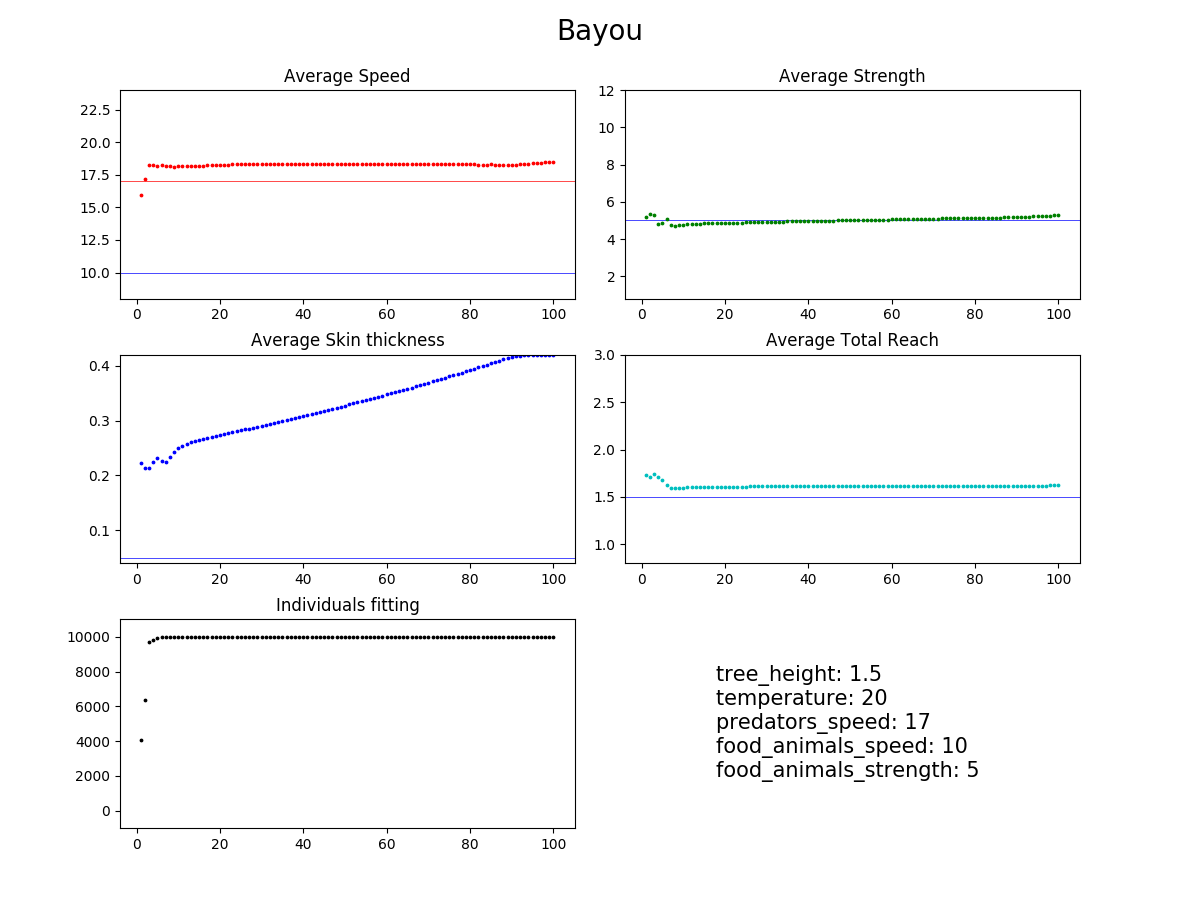
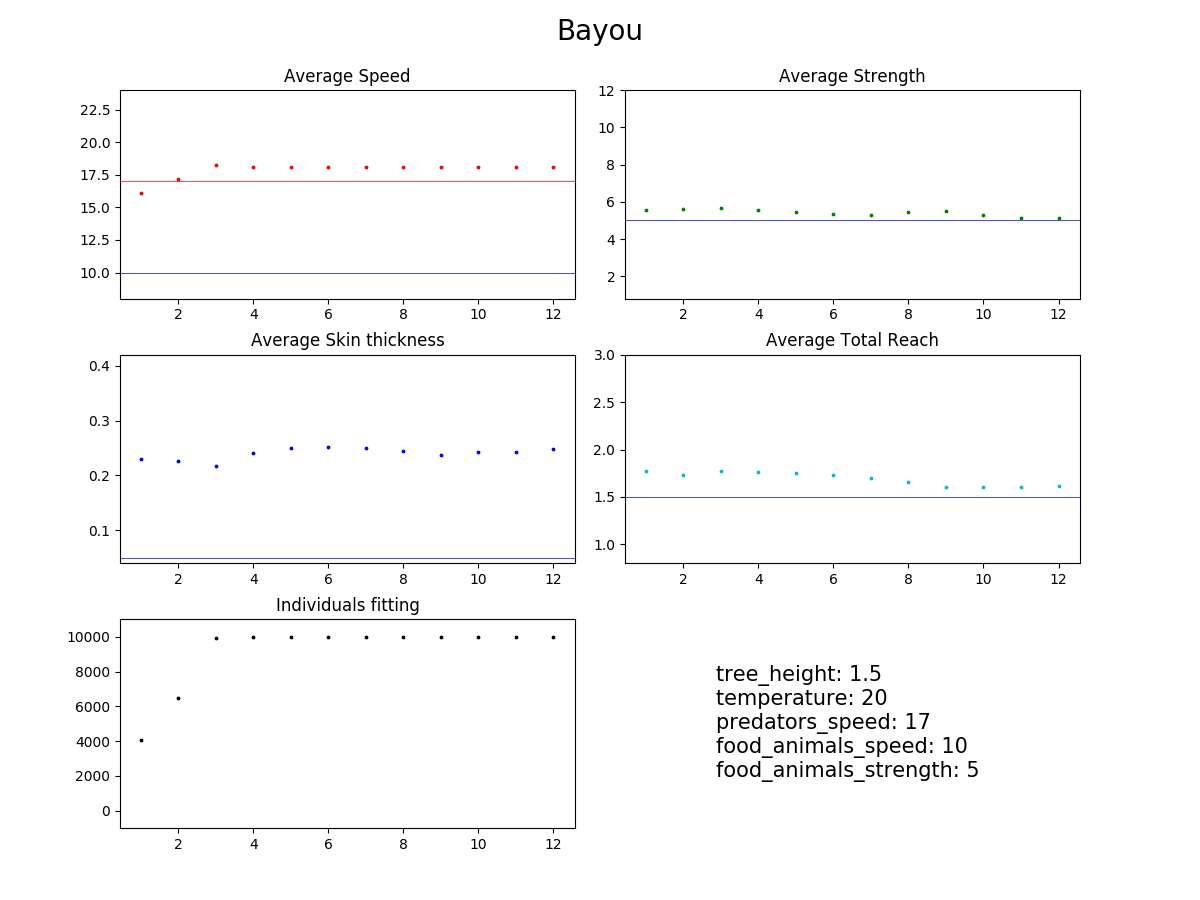
Added convergence check

diff --git a/src/natural_selection/filter.py b/src/natural_selection/filter.py
@@ -36,7 +36,7 @@ async def evaluate_individual(individual, environment):
     :rtype:
     """
     individual_value = value_function(individual, environment)
-    individual_value = check_enough_food(individual, individual_value, environment)
+    individual_value = individual_value * 0.5 if not check_enough_food(individual, environment) else individual_value
     individual_value = check_too_good(individual, individual_value, environment)
     individual_value = check_fast_enough(individual, individual_value, environment)
     individual_value = check_warm_enough(individual, individual_value, environment)
@@ -56,28 +56,33 @@ def value_function(individual, environment):
     temp_threshold = 0.05 + (abs(environment['temperature'] - 20) * (0.30 / 30))
     total_value = 0
     total_reach = individual['height'] + individual['arm_length'] + individual['jump']
-    total_value += total_reach / environment['tree_height']
-    total_value += individual['speed'] / environment['food_animals_speed']
+    total_value += 4 * total_reach / environment['tree_height']
     total_value += individual['strength'] / environment['food_animals_strength']
+    total_value += individual['speed'] / environment['predators_speed']
     total_value += individual['skin_thickness'] / temp_threshold
     return total_value
 
 
-def check_enough_food(individual, total_value, environment):
+def check_enough_food(individual, environment):
     """
-    This method checks if the individual will be able to obtain food in some way. Otherwise is penalized.
+    This method checks if the individual will be able to obtain food in some way.
     :param individual:
     :type individual: Individual
-    :param total_value:
-    :type total_value: float
     :return:
     :rtype: float
     """
     if (individual['total_reach'] < environment['tree_height']) or \
         (individual['speed'] < environment['food_animals_speed'] and
          individual['strength'] < environment['food_animals_strength']):
-        total_value = total_value * 0.5
-    return total_value
+        return False
+    return True
+
+
+def check_tall_enough(individual, environment):
+    total_reach = individual['height'] + individual['arm_length'] + individual['jump']
+    if total_reach < environment['tree_height']:
+        return False
+    return True
 
 
 def check_too_good(individual, total_value, environment):
@@ -97,19 +102,20 @@ def check_too_good(individual, total_value, environment):
     temp_threshold = 0.05 + (abs(environment['temperature'] - 20) * (0.30 / 30))
 
     if individual['total_reach'] / environment['tree_height'] > 1.1:
-        total_value = total_value * 0.50
+        total_value = total_value * 0.7
 
     if individual['skin_thickness'] / temp_threshold > 1.1:
-        total_value = total_value * 0.50
+        total_value = total_value * 0.7
 
-    if ind_speed_vs_food > 1.1:
-        if is_fast_enough(individual, environment):
-            total_value = total_value * 0.70
-        if ind_strength_vs_food > 1.1:
-            total_value = total_value * 0.70
+    if ind_strength_vs_food > 1.1:
+        total_value = total_value * 0.7
+
+    if ind_speed_vs_food > 1.1 and \
+       is_fast_enough(individual, environment):
+        total_value = total_value * 0.7
 
     if ind_speed_vs_predator > 1.1:
-        total_value = total_value * 0.90
+        total_value = total_value * 0.7
 
     return total_value
 
@@ -125,6 +131,12 @@ def is_fast_enough(individual, environment):
     :rtype:
     """
     if individual['speed'] < environment['predators_speed']:
+        return False
+    return True
+
+
+def check_strong_enough(individual, environment):
+    if individual['strength'] < environment['food_animals_strength']:
         return False
     return True
 
@@ -175,7 +187,7 @@ def check_warm_enough(individual, total_value, environment):
     if not is_warm_enough(individual, environment):
         total_value = total_value * 0.1
     else:
-        total_value = total_value * 2
+        total_value = total_value * 1.5
     return total_value
 
 

diff --git a/src/tools/analyze.py b/src/tools/analyze.py
@@ -1,30 +1,50 @@
 from src.natural_selection.filter import is_fast_enough, is_warm_enough
+from settings.settings import initial_population_size
 from src.tools import my_plot
 
 
-def analyze_population(current_population, environment, iteration):
-    total_speed = 0
-    total_strength = 0
-    total_skin = 0
-    total_reach = 0
-    total_fitting = 0
-    for individual in current_population:
-        total_speed += individual['speed']
-        total_strength += individual['strength']
-        total_skin += individual['skin_thickness']
-        total_reach += individual['height'] + individual['arm_length'] + individual['jump']
-        if ((individual['height'] + individual['arm_length'] + individual['jump']) > environment['tree_height'] or
-            (individual['speed'] > environment['food_animals_speed'] and
-             individual['strength'] > environment['food_animals_strength'])) and \
-                is_fast_enough(individual, environment) and \
-                is_warm_enough(individual, environment):
-            total_fitting += 1
-    avgs = {
-        'avg_speed': total_speed / len(current_population),
-        'avg_strength': total_strength / len(current_population),
-        'avg_skin': total_skin / len(current_population),
-        'total_reach': total_reach / len(current_population),
-        'fitting': total_fitting
-    }
-    my_plot.add_data(avgs, iteration)
-    return avgs
+class PopulationAnalysis:
+    def __init__(self):
+        self.averages = {
+            'avg_speed': 0,
+            'avg_strength': 0,
+            'avg_skin': 0,
+            'total_reach': 0,
+            'fitting': 0
+        }
+
+    def analyze_population(self, current_population, environment, iteration):
+        total_speed = 0
+        total_strength = 0
+        total_skin = 0
+        total_reach = 0
+        total_fitting = 0
+        for individual in current_population:
+            total_speed += individual['speed']
+            total_strength += individual['strength']
+            total_skin += individual['skin_thickness']
+            total_reach += individual['height'] + individual['arm_length'] + individual['jump']
+            if ((individual['height'] + individual['arm_length'] + individual['jump']) > environment['tree_height'] or
+                (individual['speed'] > environment['food_animals_speed'] and
+                 individual['strength'] > environment['food_animals_strength'])) and \
+                    is_fast_enough(individual, environment) and \
+                    is_warm_enough(individual, environment):
+                total_fitting += 1
+        self.averages = {
+            'avg_speed': total_speed / len(current_population),
+            'avg_strength': total_strength / len(current_population),
+            'avg_skin': total_skin / len(current_population),
+            'total_reach': total_reach / len(current_population),
+            'fitting': total_fitting
+        }
+        my_plot.add_data(self.averages, iteration)
+
+
+def check_converged(analysis1, analysis2):
+    total_dif = 0
+    for key, val in analysis1.averages.items():
+        total_dif += abs(val - analysis2.averages[key])
+    print(total_dif)
+    if total_dif < 0.25 and analysis1.averages['fitting'] == initial_population_size:
+        return True
+    return False

diff --git a/src/natural_selection/__init__.py b/src/natural_selection/__init__.py
@@ -2,12 +2,14 @@ import logging
 
 from src.natural_selection.filter import filter_individuals, natural_death
 from src.natural_selection.reproduce import reproduction_stage
-from src.tools.analyze import analyze_population
+from src.tools.analyze import PopulationAnalysis, check_converged
 from src.tools import check_and_return_db
 
 
 def iterate(max_iterations, current_population, environment):
-    
+
+    prev_analysis = PopulationAnalysis()
+
     for iteration in range(1, max_iterations+1):
 
         if iteration % max(int(max_iterations / 10), 10) == 0:
@@ -26,6 +28,11 @@ def iterate(max_iterations, current_population, environment):
 
         current_population = natural_death(iteration, current_population)
 
-        analyze_population(current_population, environment[1], iteration)
+        analysis = PopulationAnalysis()
+        analysis.analyze_population(current_population, environment[1], iteration)
+
+        if check_converged(analysis, prev_analysis):
+            break
+        prev_analysis = analysis
 
     return current_population
